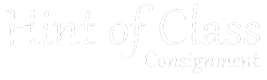
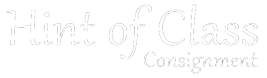
v4_10192013

diff --git a/css/style.css b/css/style.css
@@ -67,7 +67,7 @@ header {
 		}
 		
 			h1#logo a {
-			background-image: url(../img/HOC_name.png);
+			background-image: url('../img/HOC_name2.png');
 			background-repeat: no-repeat;
 			background-position: top left;
 			border: none;
@@ -83,10 +83,14 @@ header {
 		color: white;
 		float: right;
 		font-size: 18px;
-		padding-left: 10%;
+		padding-left: 5%;
 		padding-top: 35px;
 		width: 33%;
 	}
+
+		.header-right p {
+			margin: 0;
+		}
 
 nav {
 	background: #2e3092; /* Old browsers */
@@ -185,6 +189,7 @@ nav {
 		box-sizing: border-box;
 		-moz-box-sizing: border-box;
 		float: left;
+		margin-bottom: 30px;
 		padding: 50px 20px;
 		width: 50%;
 	}

diff --git a/js/main.js b/js/main.js
@@ -1,0 +1,10 @@
+$(function () {
+	$('nav > ul > li').hover(
+		function() {
+			$(this).find('ul').stop().hide().slideDown('fast')},
+
+		function() {
+			$(this).find('ul').stop().slideUp('fast')}
+		);
+
+});

diff --git a/index.php b/index.php
@@ -1,0 +1,81 @@
+<?php
+	error_reporting(0);
+
+	$p = $_GET['p'];
+
+	switch($p) {
+		case "home":
+		$title = "Home";
+		$content = "content/home_content.php";
+		break;
+
+		case "hours":
+		$title = "Hours &amp; Directions";
+		$content = "content/hours_content.php";
+		break;
+		
+		case "consignors":
+		$title = "Consignor Information";
+		$content = "content/consignors_content.php";
+		break;
+
+		case "consign_clothes":
+		$title = "Consigning Clothes";
+		$content = "content/consign_clothes_content.php";
+		break;
+
+		case "consign_furniture":
+		$title = "Consigning Furniture";
+		$content = "content/consign_furniture_content.php";
+		break;
+
+		default:
+		$title = "Home";
+		$content = "content/home_content.php";
+		break;
+	}
+
+?>
+<!DOCTYPE html>
+<html>
+<head>
+	<title>Hint of Class Consignment, Marlboro, MA | <?php echo $title; ?></title>
+	<link href='http://fonts.googleapis.com/css?family=Redressed' rel='stylesheet' type='text/css'>
+	<link rel="stylesheet" type="text/css" href="css/style.css">
+	<script src="http://code.jquery.com/jquery-1.10.1.min.js"></script>
+	<script type="text/javascript" src="js/main.js"></script>
+</head>
+<body>
+	<div id="container">
+		<header>
+			<div class="header-left">
+				<h1 id="logo"><a href="?p='home'">Hint of Class Consignment</a></h1>
+			</div> <!-- end head-left-->
+			<div class="header-right">
+				<p>72 Hosmer St., </p>
+				<p>Marlboro, MA 01752</p>
+				<p>508-485-0040</p>
+			</div> <!-- end head-right -->
+			<div class="clear"></div>
+		</header>
+		<nav>
+			<ul>
+				<li><a href="?p=home">Home</a></li>
+				<li><a href="?p=hours">Hours &amp; Directions</a></li>
+				<li><a href="?p=consignors">Consignors</a>
+					<ul>
+						<li><a href="?p=consign_clothes">Clothes</a></li>
+						<li><a href="?p=consign_furniture">Furniture</a></li>
+					</ul>
+				</li>
+			</ul>
+		</nav>
+		<div id="main">
+			<?php require $content; ?>
+			<div id="copyright">
+				<p>&copy; Copyright 2013 Hint of Class Consignment</p>
+			</div>
+		</div><!-- end main -->
+	</div><!-- end container -->
+</body>
+</html>

diff --git a/content/hours_content.php b/content/hours_content.php
@@ -1,0 +1,17 @@
+<div class="main-left">
+	<h2>Hours of Operation:</h2>
+	<p>Monday through Friday: 10:00 a.m.&ndash;6:00 p.m.</p>
+	<p>Saturday: 10:00 a.m.&ndash;5:00 p.m.</p>
+	<p>Sunday: Noon&ndash;4:00 p.m.</p>
+	<br><br>
+	<h2>Address and Phone:</h2>
+	<p>72 Hosmer St., </p>
+	<p>Marlboro, MA 01752</p>
+	<p>508-485-0040</p>
+	<p><a href="https://maps.google.com/maps?q=72+Hosmer+St.+01752&daddr=72+Hosmer+St,+Marlborough,+MA+01752&hl=en&sll=42.036922,-71.683501&sspn=2.843501,5.817261&geocode=%3BCQHEGNTYw18UFfBFhgIdrnu8-ynpGg2rfYvjiTGoHRVQUeT89Q&hnear=72+Hosmer+St,+Marlborough,+Massachusetts+01752&t=m&z=14">Directions</a></p>
+	
+</div><!-- end main-left -->
+<div class="main-right">
+	<iframe width="95%" height="350" frameborder="0" scrolling="no" marginheight="0" marginwidth="0" src="https://maps.google.com/maps?f=q&amp;source=s_q&amp;hl=en&amp;geocode=&amp;q=72+Hosmer+St.+01752&amp;aq=&amp;sll=42.036922,-71.683501&amp;sspn=2.843501,5.817261&amp;ie=UTF8&amp;hq=&amp;hnear=72+Hosmer+St,+Marlborough,+Massachusetts+01752&amp;t=m&amp;ll=42.360827,-71.533613&amp;spn=0.022198,0.034332&amp;z=14&amp;iwloc=A&amp;output=embed"></iframe><br /><small><a href="https://maps.google.com/maps?f=q&amp;source=embed&amp;hl=en&amp;geocode=&amp;q=72+Hosmer+St.+01752&amp;aq=&amp;sll=42.036922,-71.683501&amp;sspn=2.843501,5.817261&amp;ie=UTF8&amp;hq=&amp;hnear=72+Hosmer+St,+Marlborough,+Massachusetts+01752&amp;t=m&amp;ll=42.360827,-71.533613&amp;spn=0.022198,0.034332&amp;z=14&amp;iwloc=A">View Larger Map</a></small>
+</div><!-- end main-right -->
+<div class="clear"></div>

diff --git a/content/home_content.php b/content/home_content.php
@@ -1,0 +1,13 @@
+<div class="main-left">
+	<h2>Hint of Class Consignment</h2>
+	<h3>New and Gently Used Women's Apparel, Men's Apparel, Furniture, Home Decor and Accessories</h3>
+	<p>Lorem ipsum dolor sit amet, consectetuer adipiscing elit, sed <a href="#">diam nonummy</a> nibh euismod tincidunt ut laoreet dolore magna aliquam erat volutpat. Ut wisi enim ad minim veniam, quis nostrud exerci tation ullamcorper suscipit lobortis nisl ut aliquip ex ea commodo consequat.</p>
+	<p> Duis autem vel eum iriure dolor in hendrerit in vulputate velit esse molestie consequat, vel illum dolore eu feugiat nulla facilisis at vero eros et accumsan et iusto odio dignissim qui blandit praesent luptatum zzril delenit augue duis dolore te feugait nulla facilisi.</p>
+</div><!-- end main-left -->
+<div class="main-right">
+	<img src="img/placeholder/166892880.jpg" class="white-border">
+	<img src="img/placeholder/sb10064735ac-001.jpg" class="white-border">
+	<img src="img/placeholder/200181869-002.jpg" class="white-border">
+
+</div><!-- end main-right -->
+<div class="clear"></div>
